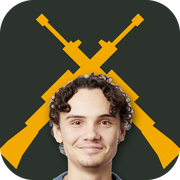
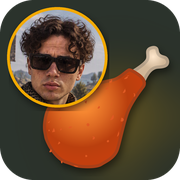
Add files via upload

diff --git a/index.html b/index.html
@@ -15,8 +15,8 @@
 <meta property="og:image:height" content="630">
 <meta property="og:image:type" content="image/jpeg">
 <meta name="twitter:card" content="summary_large_image">
-<link rel="icon" href="favicon.png?v=2" type="image/png" sizes="64x64">
-<link rel="apple-touch-icon" href="apple-touch-icon.png?v=2">
+<link rel="icon" href="favicon.png?v=3" type="image/png" sizes="64x64">
+<link rel="apple-touch-icon" href="apple-touch-icon.png?v=3">
 <link rel="preconnect" href="https://fonts.googleapis.com">
 <link rel="preconnect" href="https://fonts.gstatic.com" crossorigin>
 <link href="https://fonts.googleapis.com/css2?family=Big+Shoulders+Display:wght@700;900&family=Barlow:wght@400;500;600&display=swap" rel="stylesheet">
@@ -343,7 +343,7 @@
          alt="Gänget i full PUBG-utrustning framför en airdrop" width="1536" height="690">
     <div class="status status-top" id="statusTop" aria-live="polite"></div>
     <div class="hero-text">
-      <img src="icon-512.png" alt="" width="512" height="512">
+      <img src="icon-512.png?v=3" alt="" width="512" height="512">
       <div>
         <h1>Truppen</h1>
         <p>Vem är egentligen bäst i gänget?</p>
